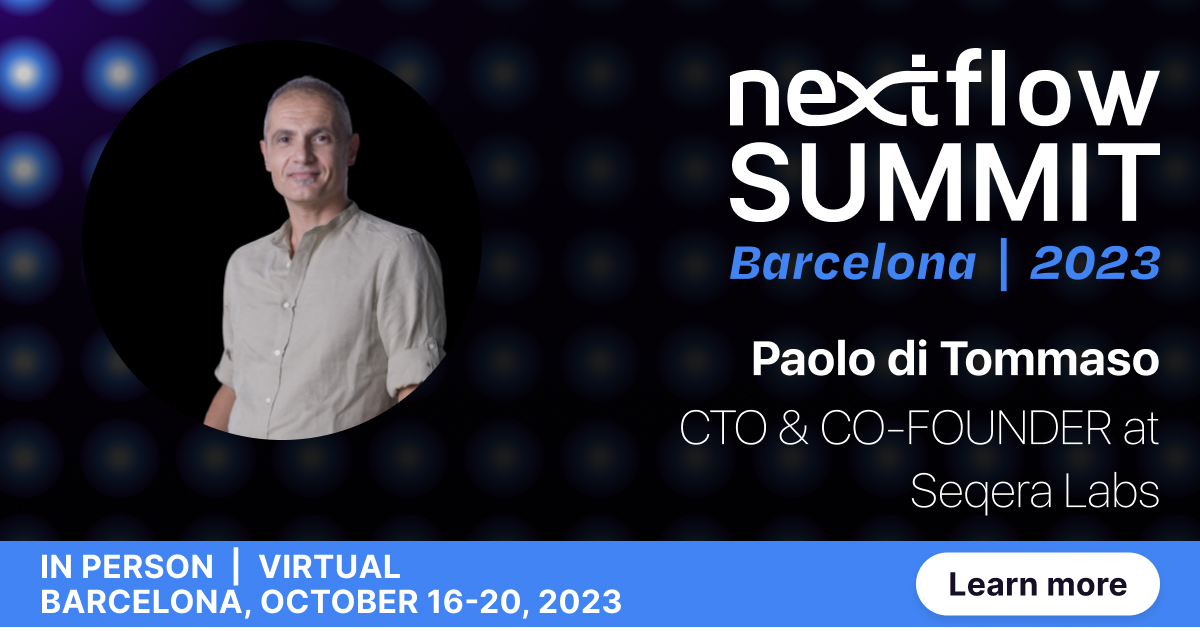
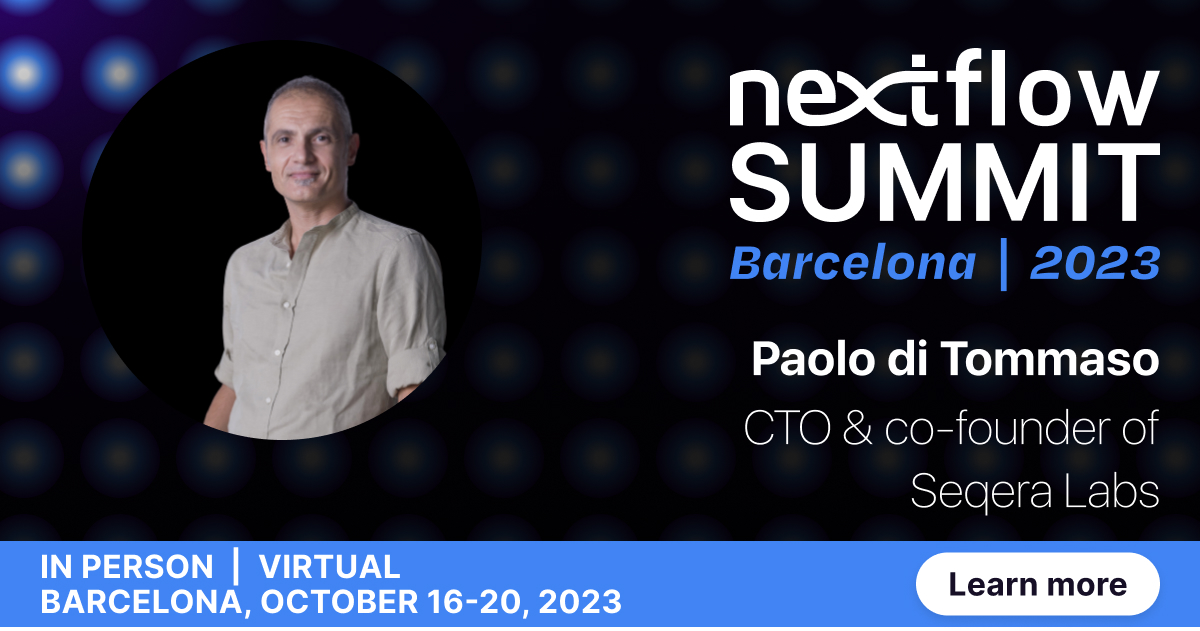
remove capitals

Changed region(s): [[0.5858, 0.6323, 0.9558, 0.7227]]

diff --git a/src/content/people/evan-floden/index.md b/src/content/people/evan-floden/index.md
@@ -2,7 +2,7 @@
 slug: /evan-floden/
 name: Evan Floden
 email: evan@seqera.io
-position: CEO & CO-FOUNDER at Seqera Labs
+position: CEO & co-founder of Seqera Labs
 image: ../../../images/people/evanfloden.png
 github: https://github.com/evanfloden
 twitter: https://twitter.com/EvanFloden

diff --git a/src/content/people/paolo-di-tommaso/index.md b/src/content/people/paolo-di-tommaso/index.md
@@ -1,7 +1,7 @@
 ---
 slug: /paolo-di-tommaso/
 name: Paolo di Tommaso
-position: CTO & CO-FOUNDER at Seqera Labs
+position: CTO & co-founder of Seqera Labs
 image: ../../../images/people/paoloditommaso.png
 github: https://github.com/pditommaso
 twitter: https://twitter.com/PaoloDiTommaso
